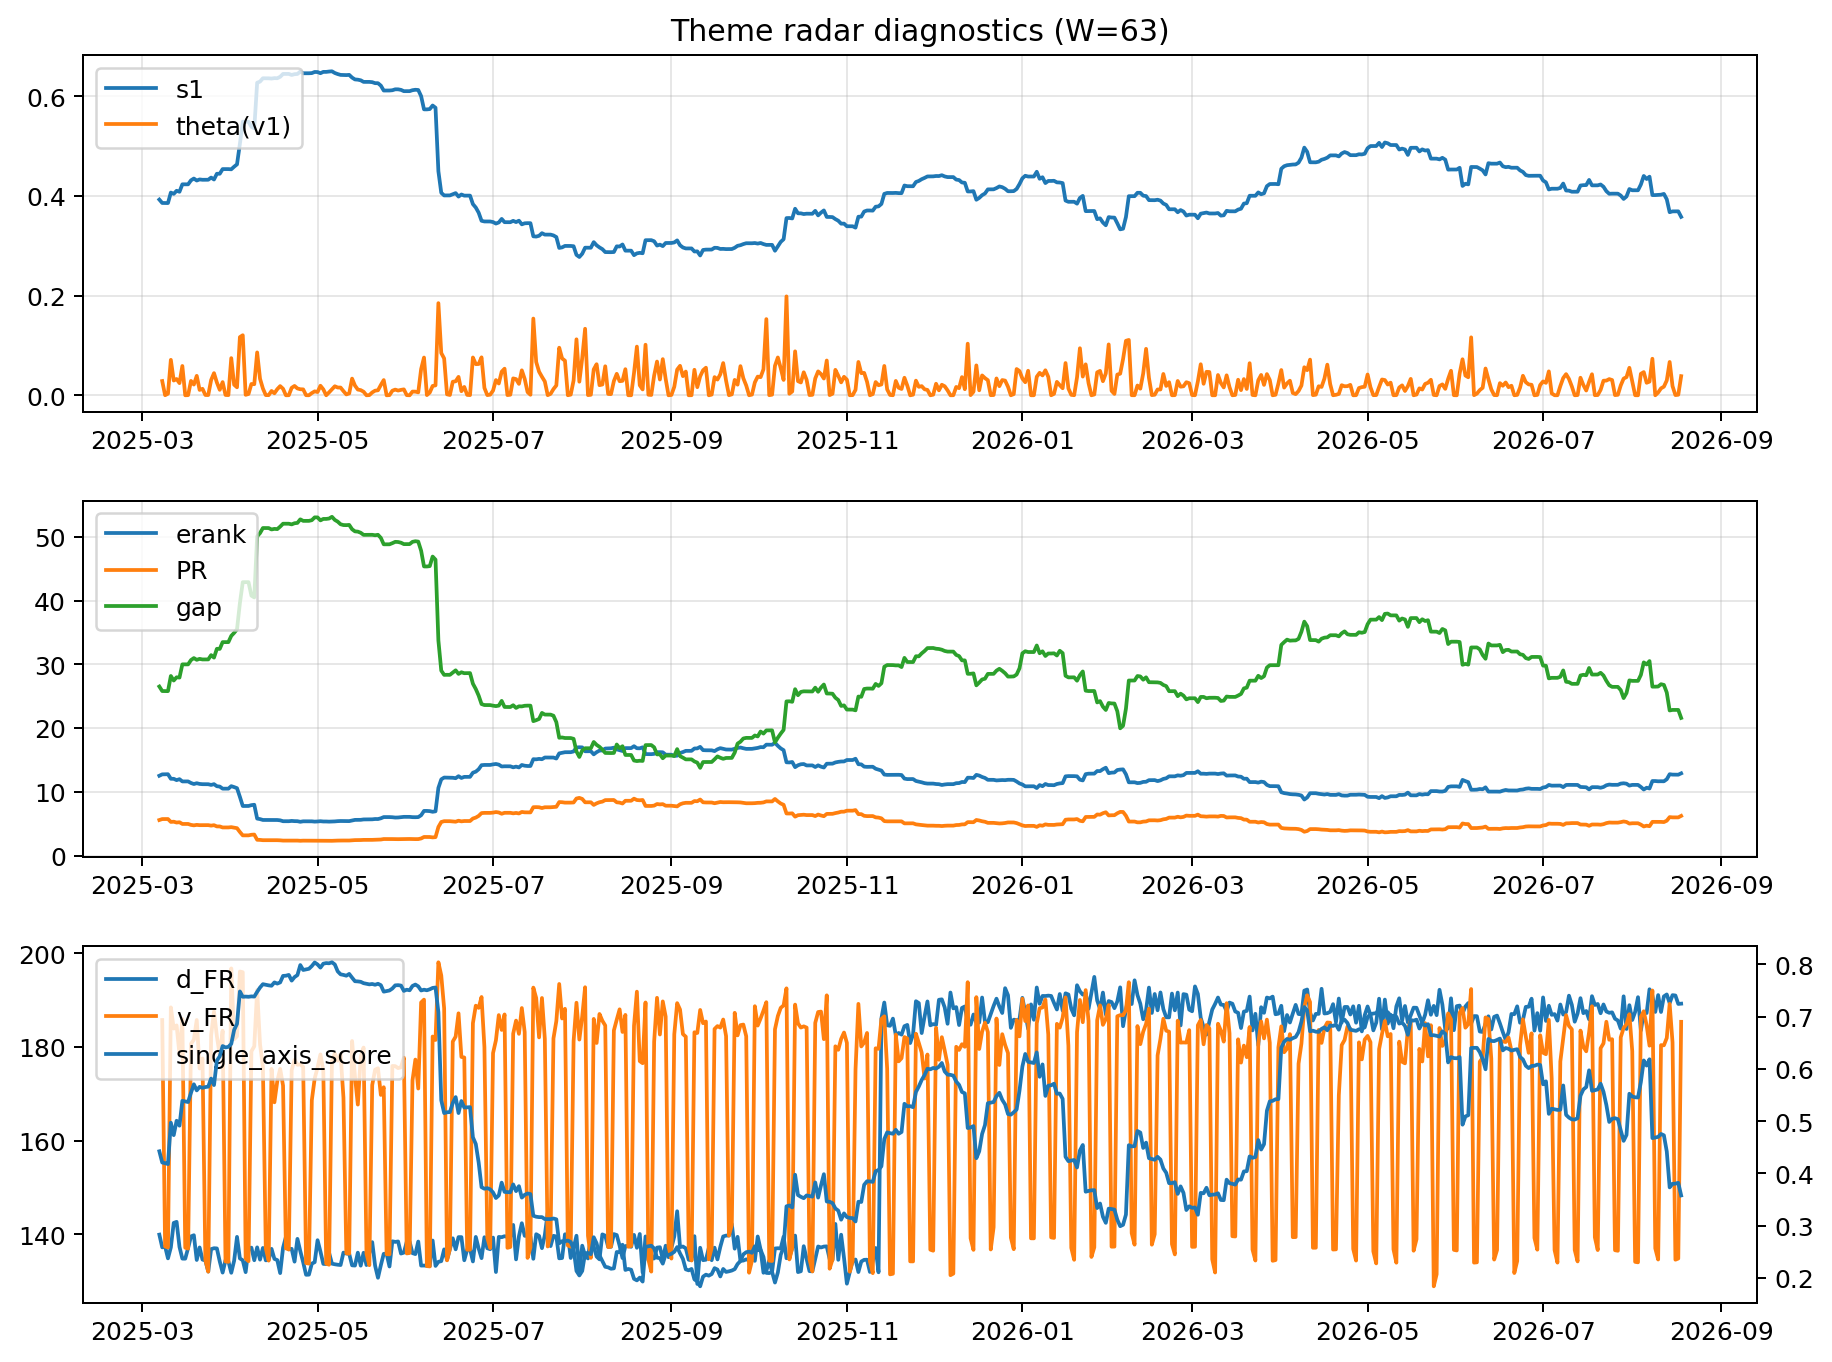
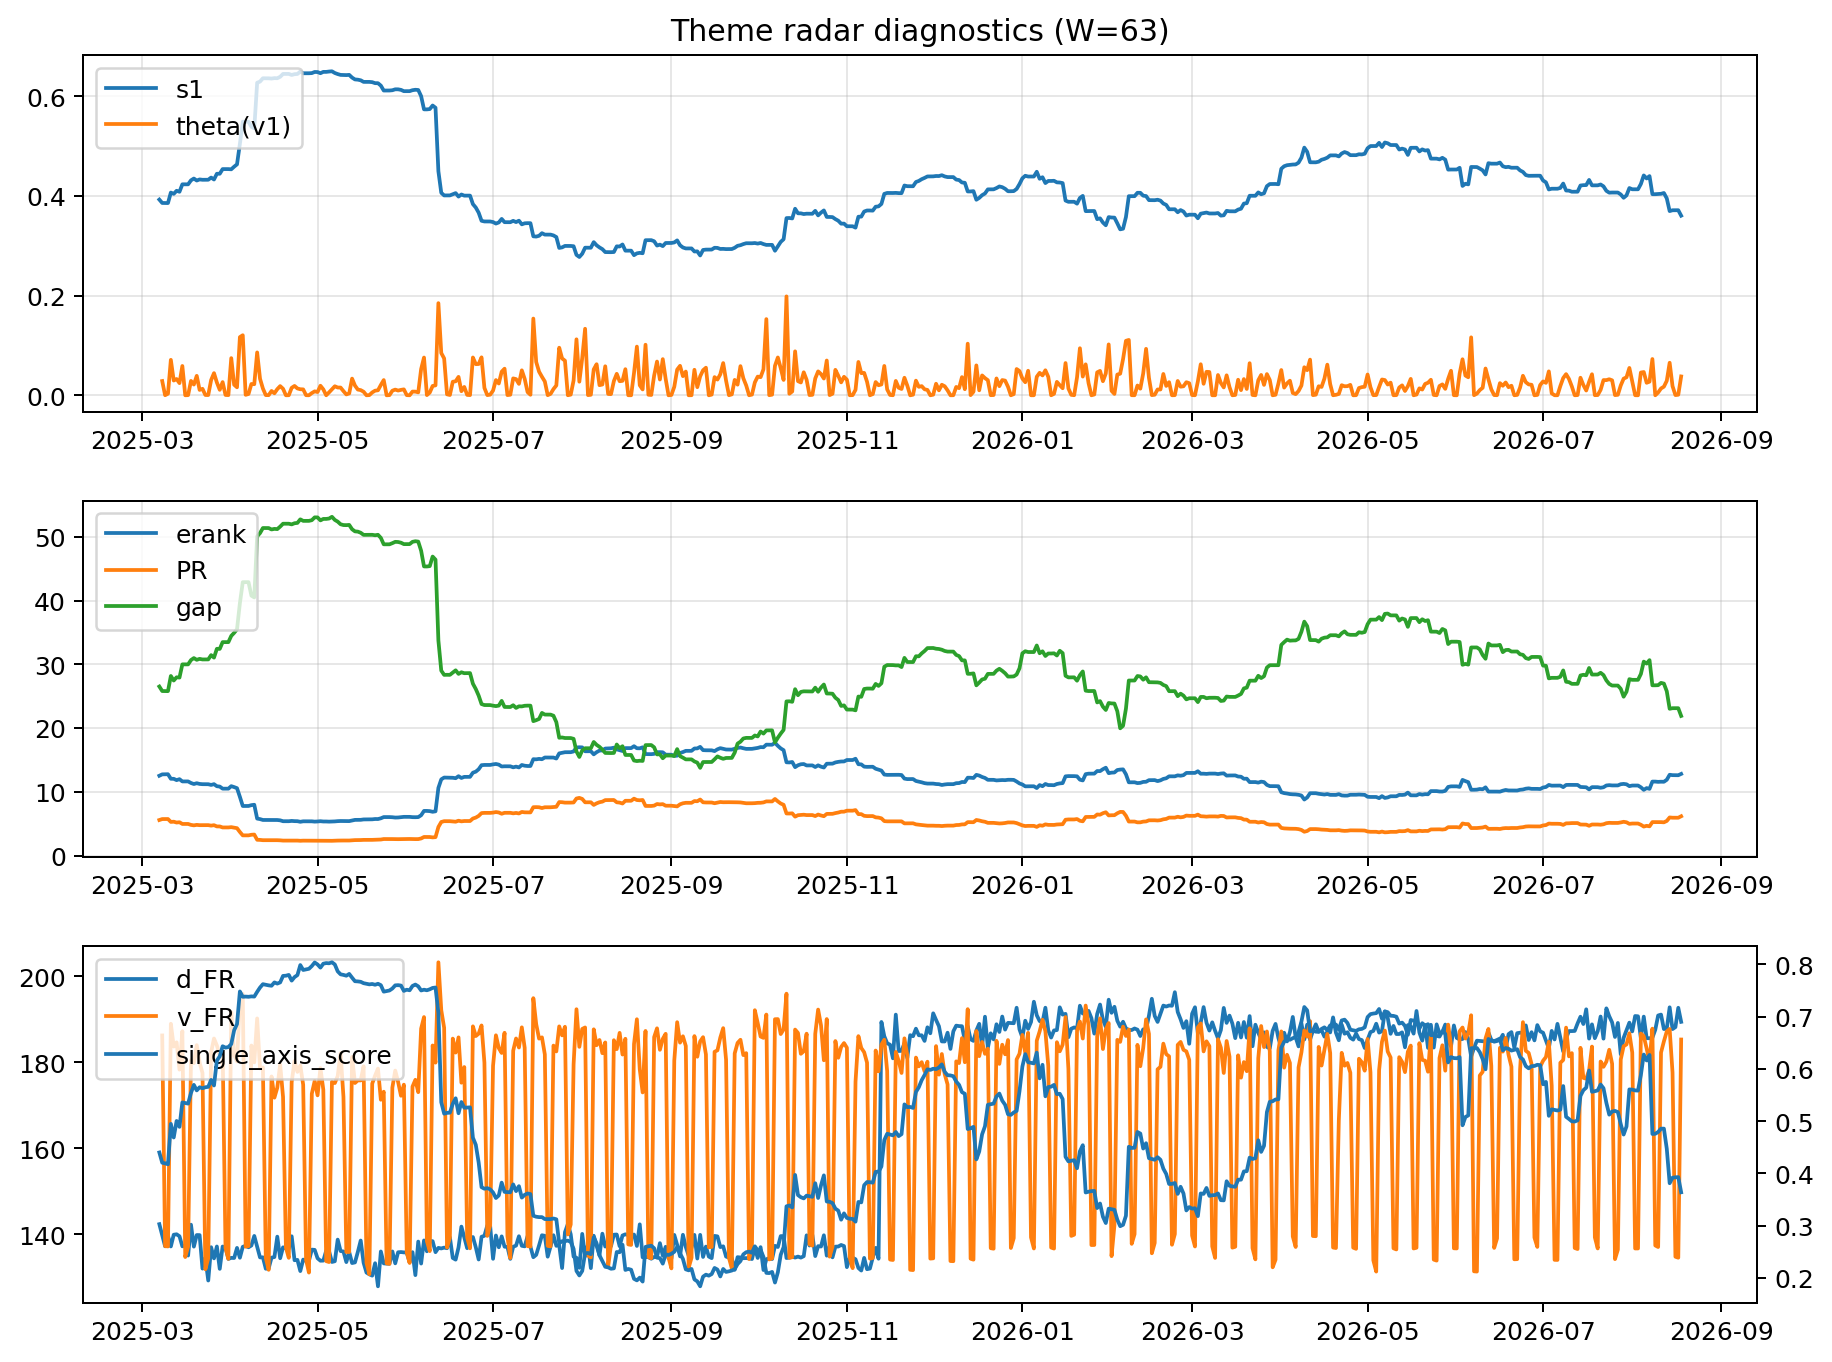
log: 2026-08-18 | sha256:a351d84de1c2d16006ee3a3c18db84a30fb6ae133e5401eba38fac7df90ce296

diff --git a/logs/2026-08-18.md b/logs/2026-08-18.md
@@ -3,44 +3,44 @@
 ![diagnostic W63](../assets/diagnostic/2026-08-18_W63.png)
 
 ## Leaders (v1) — W=63
-- **Nuclear_Uranium** (0.0902687900049853)
-- Semis (0.0767734811613699)
-- Quantum (0.0660775213902096)
+- **Nuclear_Uranium** (0.0921599511583883)
+- Semis (0.0766595839711574)
+- Quantum (0.0658961193861159)
 
 ## Challengers — W=63
-**v2:** Rates (0.0902026809601714), Software_Cloud (0.0835486664444211), Semis (0.0708580647808162)
-**v3:** Metals (0.1311625867091041), Crypto (0.0930981017332161), Miners (0.0569493638036094)
+**v2:** Rates (0.0822642504502673), Software_Cloud (0.0818958899556063), Semis (0.0721506025758677)
+**v3:** Metals (0.1283802458727279), Crypto (0.0900814073188966), Miners (0.0585322812584801)
 
 ## Migration (20D slope) — W=63
 **Top risers:**
-- axis_Commodities: 0.0004860408792959
-- axis_Semis: 0.0004672882379484
-- axis_Quantum: 0.0004630120304393
-- axis_Grid_Power: 0.0002571497655691
-- axis_Space: 0.0002196267436076
-- axis_Sector_Health: 0.0002146321885811
-- axis_Sector_Energy: 0.0002105343028527
-- axis_Robotics: 0.0001726379231749
-- axis_Nuclear_Uranium: 0.0001236844093892
-- axis_Clean_Broad: 0.00011560420342
+- axis_Commodities: 0.0004804194423501
+- axis_Semis: 0.0004676954703859
+- axis_Quantum: 0.0004595844716382
+- axis_Grid_Power: 0.0002561809007922
+- axis_Space: 0.0002218944911772
+- axis_Sector_Health: 0.0002146524020591
+- axis_Sector_Energy: 0.000206929535044
+- axis_Nuclear_Uranium: 0.0001788535889699
+- axis_Robotics: 0.0001627654308225
+- axis_Clean_Broad: 0.000116698113162
 
 **Top fallers:**
-- axis_USD: -0.0001165399510761
-- axis_Sector_ConsDisc: -0.0001246007117493
-- axis_Credit: -0.000133714494279
-- axis_Vol: -0.0001372235166749
-- axis_MegaCap_AI: -0.0002439251957597
-- axis_Sector_Materials: -0.0002494137827734
-- axis_Miners: -0.0002916387297122
-- axis_Crypto: -0.0003337019838824
-- axis_Rates: -0.0004519965573238
-- axis_Metals: -0.0007157558740155
+- axis_USD: -0.0001163903583957
+- axis_Sector_Comm: -0.0001346576387065
+- axis_Credit: -0.0001423586147598
+- axis_Sector_Materials: -0.0001603318229982
+- axis_Vol: -0.0001614690993728
+- axis_Miners: -0.0002374562824065
+- axis_MegaCap_AI: -0.0002557984609521
+- axis_Crypto: -0.0003204008708207
+- axis_Rates: -0.0006004694324138
+- axis_Metals: -0.000696886945627
 
 ## Risk line (W=63)
-- s1: 0.3579361114932712
-- theta_v1: 0.0384019636340581
-- v_FR: 185.36339015660675
-- single_axis_score: 0.3577358490566037
+- s1: 0.3602984341662372
+- theta_v1: 0.0378223117725417
+- v_FR: 185.31383147889187
+- single_axis_score: 0.3637735849056603
 
 ## Interpretation
 **Regime:** `theme_migration`
@@ -48,7 +48,7 @@
 - Action: Tomorrow watchlist: Commodities, Semis, Quantum, Grid_Power, Space + v2_top1=Rates
 - Action: Hedge note: normal correlation stability.
 
-- Percentiles (W=63 history): vfr_pct=0.78, theta_pct=0.77, s1_pct=0.25, score_pct=0.25.
+- Percentiles (W=63 history): vfr_pct=0.77, theta_pct=0.77, s1_pct=0.25, score_pct=0.28.
 
 ---
[2 lines of base64/hex data omitted]
